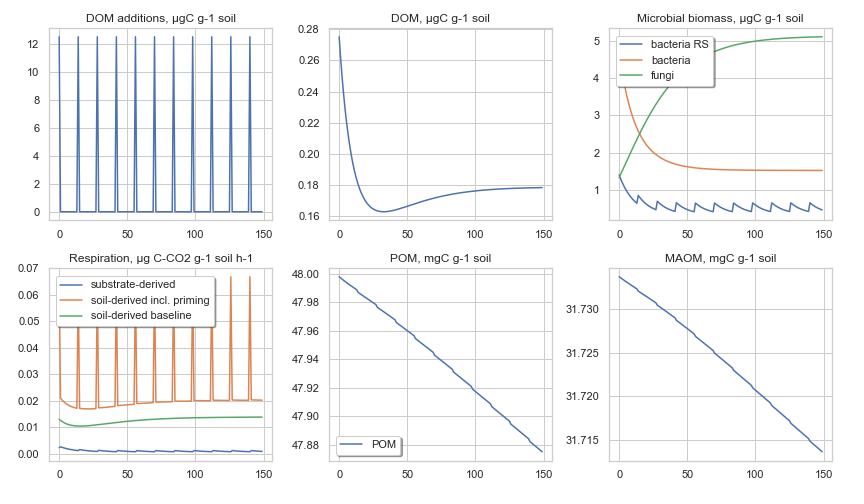
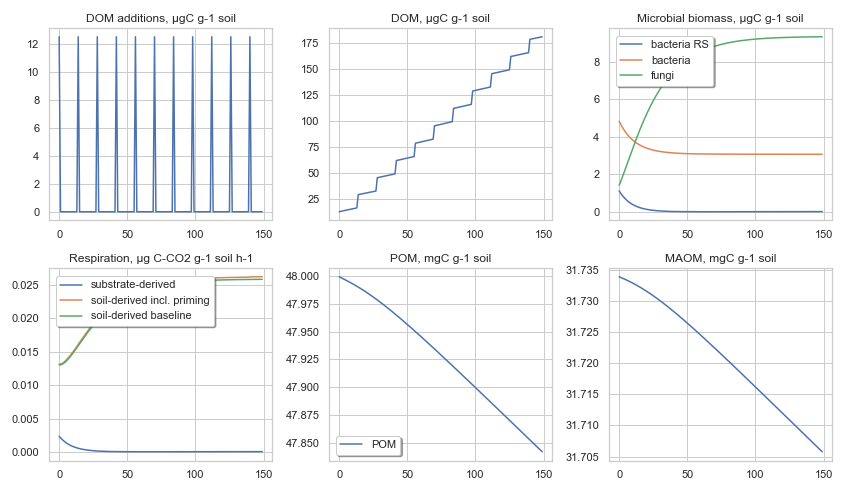
debugging MAOMs/MAOMp/calcpriming

diff --git a/potPrimingMAOM.py b/potPrimingMAOM.py
@@ -126,14 +126,14 @@ for d in range(numDays):
         CN_DOM=DOM/DOM_N #calculate new CN of DOM pool
           
     # microbial growth on DOM and priming
-    DOM,DOM_N, bact_RS, POM, MAOM, resp, respPriming= mf.calcRhizosphere(POM, CN_POM, MAOM, CN_MAOM, bact_RS, CN_bact, DOM, CN_DOM, GMAX, DEATH, pCN, pH, rRESP, KSbact, DOM_EC, Pmax, k, kPOM_MAOM)
+    DOM,DOM_N, bact_RS, POM, MAOMs, resp, respPriming= mf.calcRhizosphere(POM, CN_POM, MAOMs, CN_MAOM, bact_RS, CN_bact, DOM, CN_DOM, GMAX, DEATH, pCN, pH, rRESP, KSbact, DOM_EC, Pmax, k, kPOM_MAOM)
                                                                    # ((MAOMsaturation,maxMAOM,bact_RS, DOM, gmax, DEATH,CN_bact, CN_DOM, pCN, pH, res, Ks, fCN, CN_SOM, Nmin, SOM,PVstruct,  primingIntensity)        # MAOM formation
 
     #MAOM formation
-    DOM =mf.calcMAOMformation (bact_RS, DOM_N, fractionSA, MAOMp, maxMAOMp, DOM, MAOMs, maxMAOMs, MAOMsmaxrate, MAOMpmaxrate, MM_DOM_MAOM,maxEffectBactMAOM,MM_BactMAOM, maxEffectN_MAOM,MM_N_MAOM, maxEffectSA_MAOM,MM_SA_MAOM)
+    DOM, DOM_N, MAOMp, MAOMs =mf.calcMAOMformation (bact_RS, DOM_N, fractionSA, MAOMp, maxMAOMp, DOM, MAOMs, maxMAOMs, MAOMsmaxrate, MAOMpmaxrate, MM_DOM_MAOM,maxEffectBactMAOM,MM_BactMAOM, maxEffectN_MAOM,MM_N_MAOM, maxEffectSA_MAOM,MM_SA_MAOM)
     
     # baseline microbial growth on SOM (without substrate DOM additions)
-    MAOMunavail = max((PSA[0]/sum(PSA))*MAOM,MAOMunavail)   #unavail can only go up (unless you disrupt which is not implemented yet), so if more MAOM is stored, equivalent amount will be be always unavailable
+    #MAOMunavail = MAOMp #max((PSA[0]/sum(PSA))*MAOM,MAOMunavail)   #unavail can only go up (unless you disrupt which is not implemented yet), so if more MAOM is stored, equivalent amount will be be always unavailable
     availability=mf.calcAvailPot(PV, PW) #calculates availability of SOM decomposition by bacteria and fungi, separately, from pore size distribution and soil water
     #calculate maximal growth (gmax) for bacteria/fungi on POM/MAOM separately
     gmaxbPOM = mf.calcgmaxmod(CN_bact, CN_POM, pCN, 0.0, 0, pH, 1)*GMAX #gmax for bact on POM
@@ -146,14 +146,14 @@ for d in range(numDays):
     
     #growth equations (dB/dt) for each functional group and for variations in C and N pools
     bactPOMgrowth = mf.calcgrowth(bact, POM, availability[0], gmaxbPOM, KSbact*bact)
-    bactMAOMgrowth = mf.calcgrowth(bact, MAOM-MAOMunavail, availability[0], gmaxbMAOM, KSbact*bact)
+    bactMAOMgrowth = mf.calcgrowth(bact, MAOMs, availability[0], gmaxbMAOM, KSbact*bact)
     dbact = bactPOMgrowth + bactMAOMgrowth - DEATH*bact - rRESP*bact
     
     bact_sub_abs += bactMAOMgrowth*MAOM_sub - DEATH*bact*bact_sub - rRESP*bact*bact_sub #add the corresponding part of growth on MAOM as substrate derived C, subtract correspodning part of death and respiration
     
     
     fungiPOMgrowth = mf.calcgrowth(fungi, POM, availability[1], gmaxfPOM, KSfungi*fungi)
-    fungiMAOMgrowth = mf.calcgrowth(fungi,MAOM-MAOMunavail, availability[1], gmaxfMAOM, KSfungi*fungi)
+    fungiMAOMgrowth = mf.calcgrowth(fungi,MAOMs, availability[1], gmaxfMAOM, KSfungi*fungi)
     dfungi =  fungiPOMgrowth + fungiMAOMgrowth - DEATHfungi*fungi - rRESPfungi*fungi 
     fungi_sub_abs+=fungiMAOMgrowth*MAOM_sub - DEATHfungi*fungi*fungi_sub - rRESPfungi*fungi*fungi_sub #add the corresponding part of growth on MAOM as substrate derived C, subtract death and respiration
     

diff --git a/keylink_functions.py b/keylink_functions.py
@@ -443,10 +443,10 @@ def fCompSpecies(B, t, avail, modt, GMAX, litterCN,SOMCN, mf, CN, MCN, MREC, pH,
             eng, hvores, pred, litter, som, roots, co2,
             bactResp,funResp,EMresp,bactGrowthSOM,bactGrowthLit, SOMeaten, LITeaten, LITeatenEng,0]   
 
-def calcPriming(POM, CN_POM, MAOM, CN_MAOM, bact_RS, CN_bact, DOM,CN_DOM, ExtraGrowth, DOM_EC, Pmax, k, kPOM_MAOM):
+def calcPriming(POM, CN_POM, MAOMs, CN_MAOM, bact_RS, CN_bact, DOM,CN_DOM, ExtraGrowth, DOM_EC, Pmax, k, kPOM_MAOM):
         #not sure how to use ExtraGrowth below but I have a feeling I should:D
         #how much nitrogen can be released from SOM with the energy in remaining DOM:
-        DOM_E = DOM/DOM_EC # total energy stored in the remaining DOM pool [J]
+        DOM_E = ExtraGrowth/DOM_EC # total energy stored in the remaining DOM pool [J]
         #SOMdecayed = [gC] how much gC in POM or MAOM can be decayed with energy in DOM (DOM_E)
         #DecayCost = how much energy will be spent on SOM decay, definite integral of a decay price function [J]
               
@@ -476,9 +476,9 @@ def calcPriming(POM, CN_POM, MAOM, CN_MAOM, bact_RS, CN_bact, DOM,CN_DOM, ExtraG
             bact_RS += PrimingGrowth #grow new microbes thanks to priming, but where does this C come from? from POM/MAOM?
             respPrim=SOMdecayed-PrimingGrowth #C for new growth is taken from SOM, so only the rest is respired, 
             #??at which point should we let the new RS bacteria biomass respire?
-            DOM = 0.0001 # quick fix not to divide by zero I burnt off all C in DOM to get N?? is that okay?? this respiration unaccounted for yet
+            DOM-=ExtraGrowth  # quick fix not to divide by zero I burnt off all C in DOM to get N?? is that okay?? this respiration unaccounted for yet
             POM-=POMdecayed 
-            MAOM-=MAOMdecayed
+            MAOMs-=MAOMdecayed
             print("how much was grown from potential growth", PrimingGrowth, ExtraGrowth) #let's see if we always realize all 
         else:
 
@@ -514,7 +514,7 @@ def calcPriming(POM, CN_POM, MAOM, CN_MAOM, bact_RS, CN_bact, DOM,CN_DOM, ExtraG
         # else:
         #     respPrim=0
         #     Cbact_RS=Cbact_RS+ExtraGrowth
-        return DOM, POM, MAOM, bact_RS, respPrim
+        return DOM, POM, MAOMs, bact_RS, respPrim
 
 def calcRhizosphere (POM, CN_POM, MAOM, CN_MAOM, bact_RS, CN_bact, DOM, CN_DOM, GMAX, DEATH, pCN, pH, res, KSbact, DOM_EC, Pmax, k, kPOM_MAOM):  
 
@@ -594,4 +594,4 @@ def calcMAOMformation (bact_RS, DOM_N, fractionSA, MAOMp, maxMAOMp, DOM, MAOMs, 
          if Pot_dMAOMp_dt >0:
              MAOMp = MAOMp + Pot_dMAOMp_dt
              DOM = DOM - Pot_dMAOMp_dt
-         return DOM    
+         return DOM, DOM_N, MAOMp, MAOMs   
